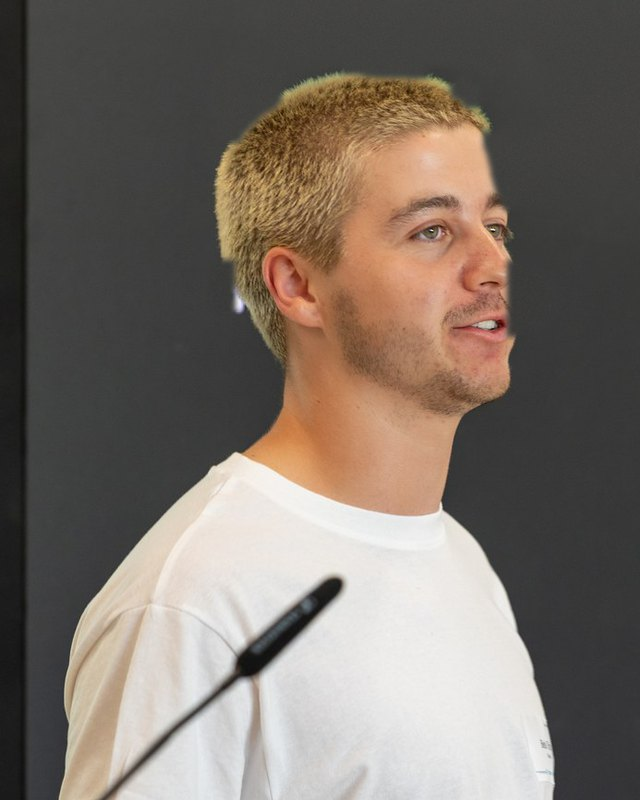
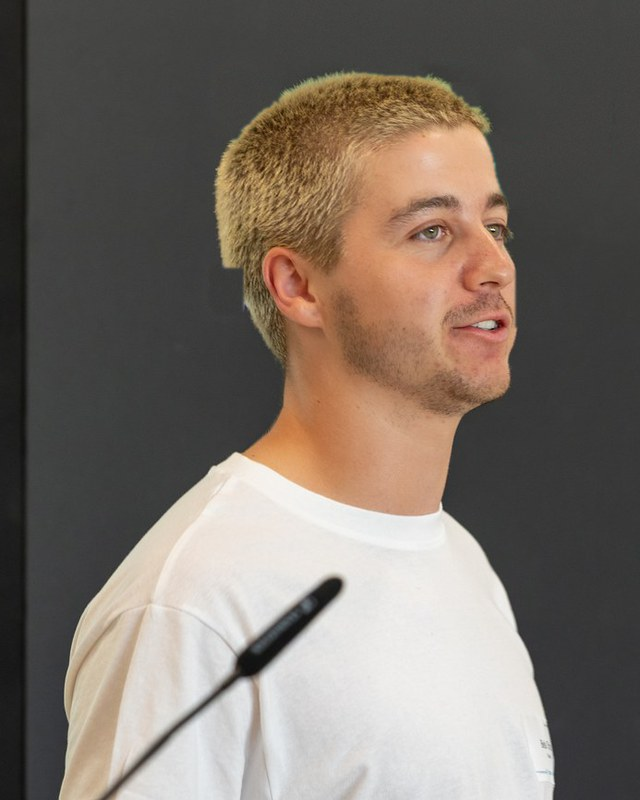
Drop the graph-gaps list, fix Bela's portrait retouch
- Trust: remove the "Where the graph has gaps" column; the section is
  now the three local-first promises in one ruled row. The limits stay
  in the FAQ answer on languages.
- Team: redo the retouch of Bela's photo so only the slide behind him
  is replaced; the edges of his face and hair are left untouched.

diff --git a/src/components/Trust.tsx b/src/components/Trust.tsx
@@ -1,6 +1,6 @@
 import { Section, SectionHeader } from "./ui";
 
-// Two promises, stated with their limits. "Your code never leaves your
+// Three promises about where the code goes. "Your code never leaves your
 // machine" is only true for the extension with the AI layer off — never
 // widen it to the team version (brain/07-brand.md · prohibited claims).
 
@@ -21,77 +21,29 @@ const LOCAL = [
   },
 ];
 
-// Where the graph has gaps, each with a line of code a reader recognises.
-// Keep in step with brain/01-product.md · limitations.
-const GAPS = [
-  {
-    code: "handlers[event]()",
-    title: "Calls decided while the program runs",
-    body: "Which function this calls depends on data. Reading the source alone can't know, so the graph draws no edge.",
-  },
-  {
-    code: "eval(src) · getattr(obj, name)",
-    title: "Code built from strings",
-    body: "The function's name only exists at runtime, so there is nothing in the source to connect.",
-  },
-  {
-    code: "#define · template<T>",
-    title: "Heavy C++ macros and templates",
-    body: "Partly resolved. Some calls behind them are missing.",
-  },
-  {
-    code: "import numpy",
-    title: "Libraries you install",
-    body: "Not opened on purpose. All calls into a library meet at one node, so large dependencies don't bury your own code.",
-  },
-];
-
 export default function Trust() {
   return (
     <Section id="trust" number="04" name="Your code" line="signal">
-      <SectionHeader title="It runs where your code is. And it tells you what it can't see." />
+      <SectionHeader title="It runs where your code is." />
 
-      <div className="mt-14 grid border-t border-edge lg:mt-16 xl:grid-cols-2">
-        {/* Local-first */}
-        <div className="flex flex-col pt-8 xl:pr-10">
-          <span className="label text-[10px] text-signal">On your machine</span>
-          <ul className="mt-6 flex flex-col divide-y divide-edge">
-            {LOCAL.map((item) => (
-              <li key={item.title} className="flex gap-4 py-5 first:pt-0">
-                <svg width="14" height="14" viewBox="0 0 14 14" className="mt-1.5 shrink-0" aria-hidden="true">
-                  <circle cx="7" cy="7" r="5" fill="#37d39b" />
-                </svg>
-                <div className="flex flex-col gap-1.5">
-                  <h3 className="font-display text-base font-semibold text-ink">{item.title}</h3>
-                  <p className="copy text-sm text-ink-muted">{item.body}</p>
-                </div>
-              </li>
-            ))}
-          </ul>
-        </div>
-
-        {/* Honest limits */}
-        <div className="mt-8 flex flex-col border-t border-edge pt-8 xl:mt-0 xl:border-l xl:border-t-0 xl:pl-10">
-          <span className="label text-[10px] text-ink-dim">Where the graph has gaps</span>
-          <p className="copy mt-6 text-sm text-ink-soft">
-            CoGraph reads your code without running it. A call that is only
-            decided at runtime is invisible to it, and gets no edge.
-          </p>
-          <ul className="mt-6 flex flex-col divide-y divide-edge border-t border-edge">
-            {GAPS.map((gap) => (
-              <li key={gap.title} className="flex flex-col gap-1.5 py-5">
-                <code className="font-mono text-xs text-ink-dim">{gap.code}</code>
-                <h3 className="font-display text-base font-semibold text-ink">{gap.title}</h3>
-                <p className="copy text-sm text-ink-muted">{gap.body}</p>
-              </li>
-            ))}
-          </ul>
-          <p className="copy mt-4 border-l-2 border-ink-dim pl-4 text-sm text-ink-soft xl:mt-auto">
-            We would rather show you a smaller graph that is true than a larger
-            one that is guessed.
-          </p>
-        </div>
-      </div>
+      <ul className="mt-14 grid border-t border-edge lg:mt-16 lg:grid-cols-3">
+        {LOCAL.map((item, i) => (
+          <li
+            key={item.title}
+            className={`flex gap-4 border-b border-edge py-7 lg:border-b-0 lg:py-8 ${
+              i > 0 ? "lg:border-l lg:pl-8" : ""
+            } ${i < LOCAL.length - 1 ? "lg:pr-8" : ""}`}
+          >
+            <svg width="14" height="14" viewBox="0 0 14 14" className="mt-1.5 shrink-0" aria-hidden="true">
+              <circle cx="7" cy="7" r="5" fill="#37d39b" />
+            </svg>
+            <div className="flex flex-col gap-1.5">
+              <h3 className="font-display text-base font-semibold text-ink">{item.title}</h3>
+              <p className="copy text-sm text-ink-muted">{item.body}</p>
+            </div>
+          </li>
+        ))}
+      </ul>
     </Section>
   );
 }
